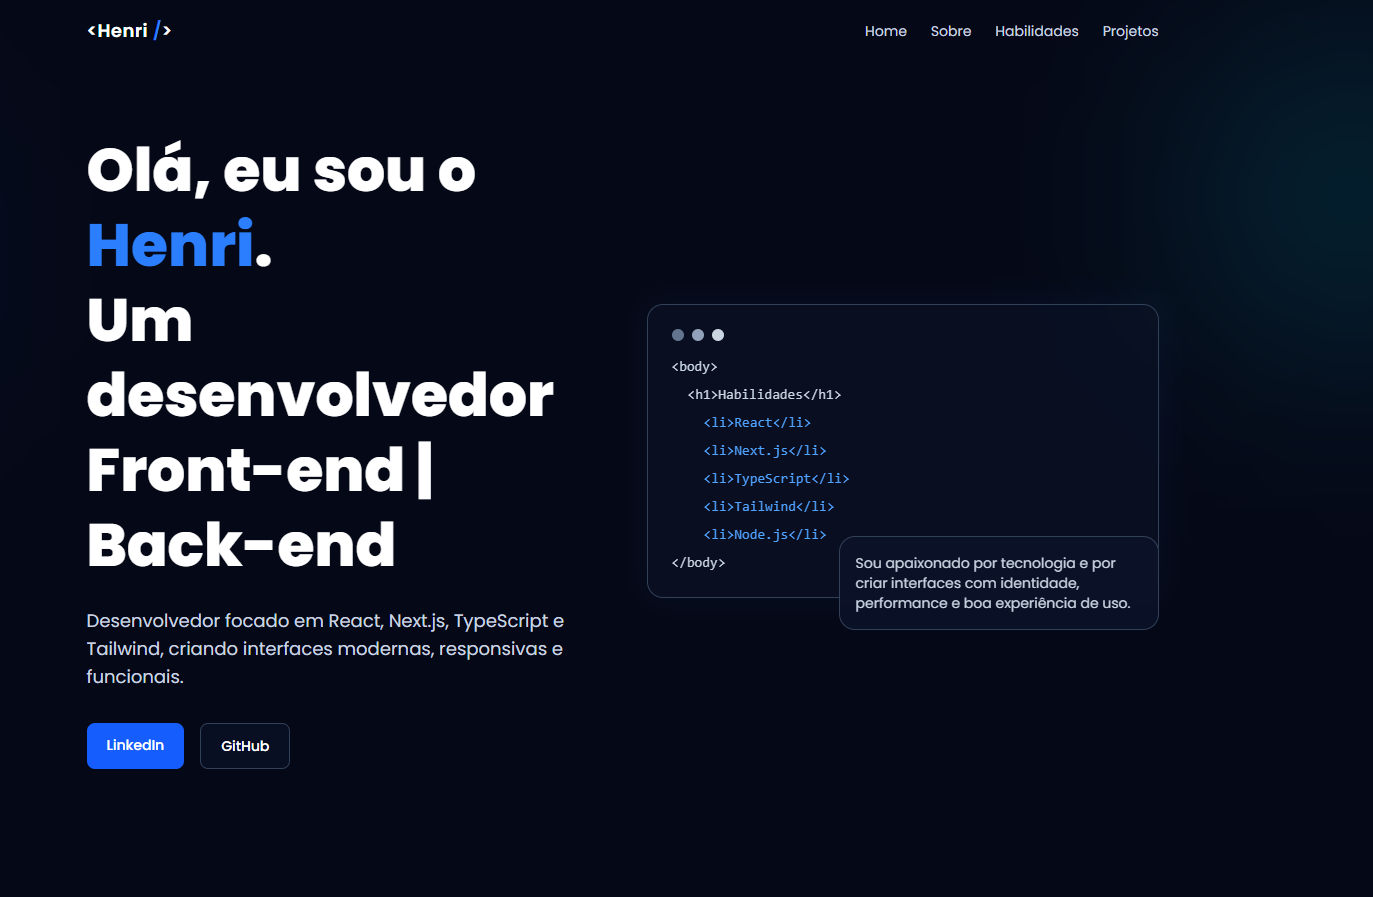
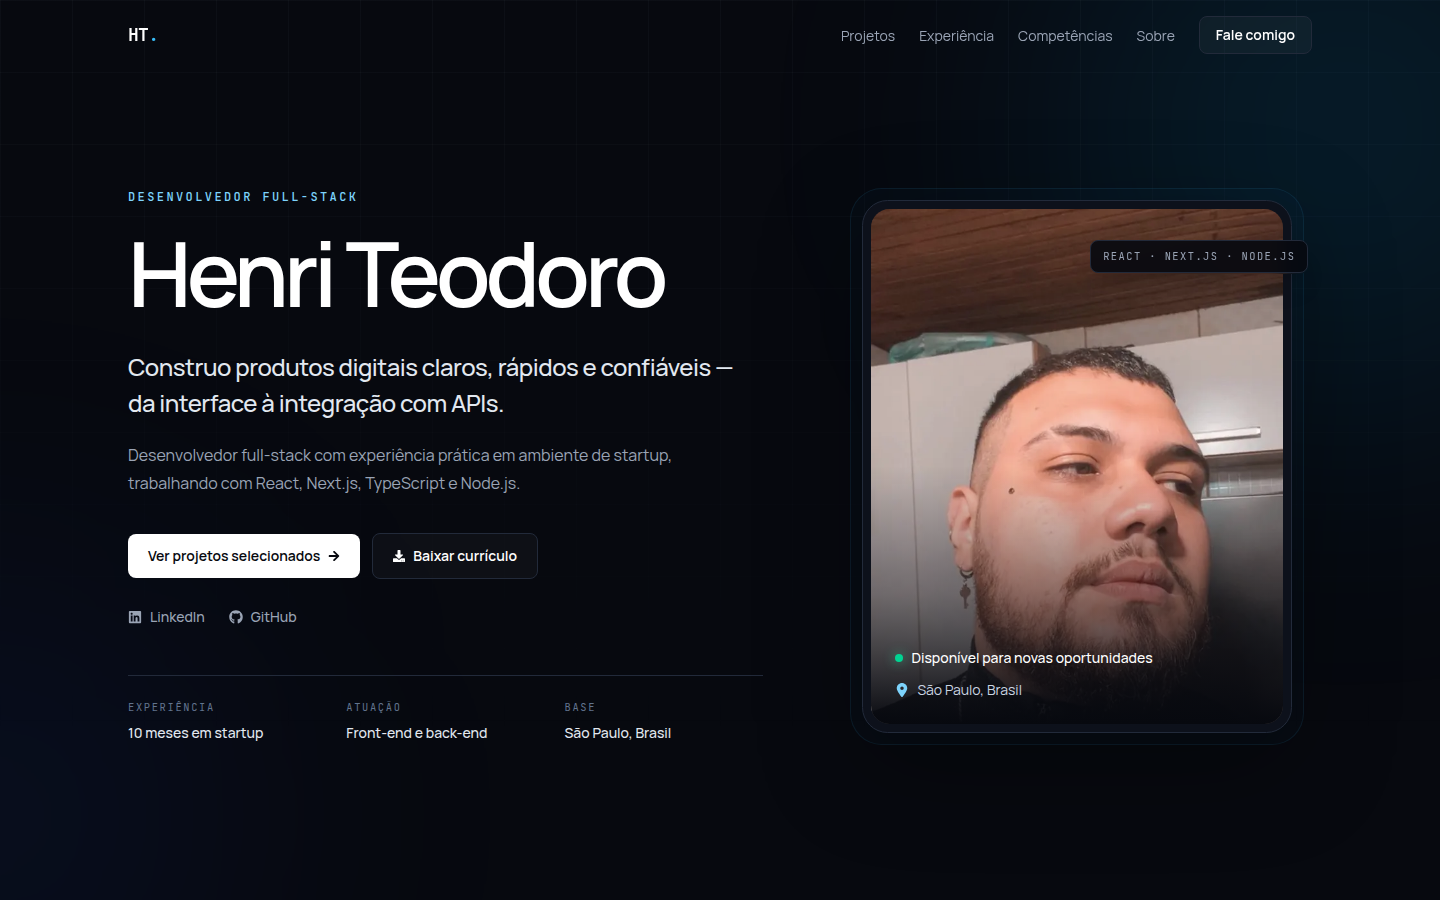
fix: alinhar evidencia visual e principios de trabalho
Substitui a captura antiga do projeto principal pelo redesign atual e torna
os principios de trabalho mais concretos, com foco em diagnostico,
reutilizacao de componentes e entregas pequenas.

diff --git a/src/data/experience.ts b/src/data/experience.ts
@@ -15,20 +15,20 @@ export const experience = {
 export const workingPrinciples = [
   {
     number: "01",
-    title: "Clareza antes da complexidade",
+    title: "Problema antes da solução",
     description:
-      "Entendo o problema e organizo a solução antes de começar a escrever código.",
+      "Investigo a causa e defino o resultado esperado antes de alterar o código.",
   },
   {
     number: "02",
-    title: "Comunicação aberta",
+    title: "Componentes reutilizáveis",
     description:
-      "Compartilho contexto, sinalizo bloqueios e transformo decisões em próximos passos.",
+      "Extraio padrões de interface para reduzir repetição e manter consistência.",
   },
   {
     number: "03",
-    title: "Evolução contínua",
+    title: "Entregas pequenas",
     description:
-      "Uso feedback, revisão e estudo constante para melhorar cada entrega.",
+      "Divido o escopo em mudanças menores, mais fáceis de revisar e evoluir.",
   },
 ] as const;
